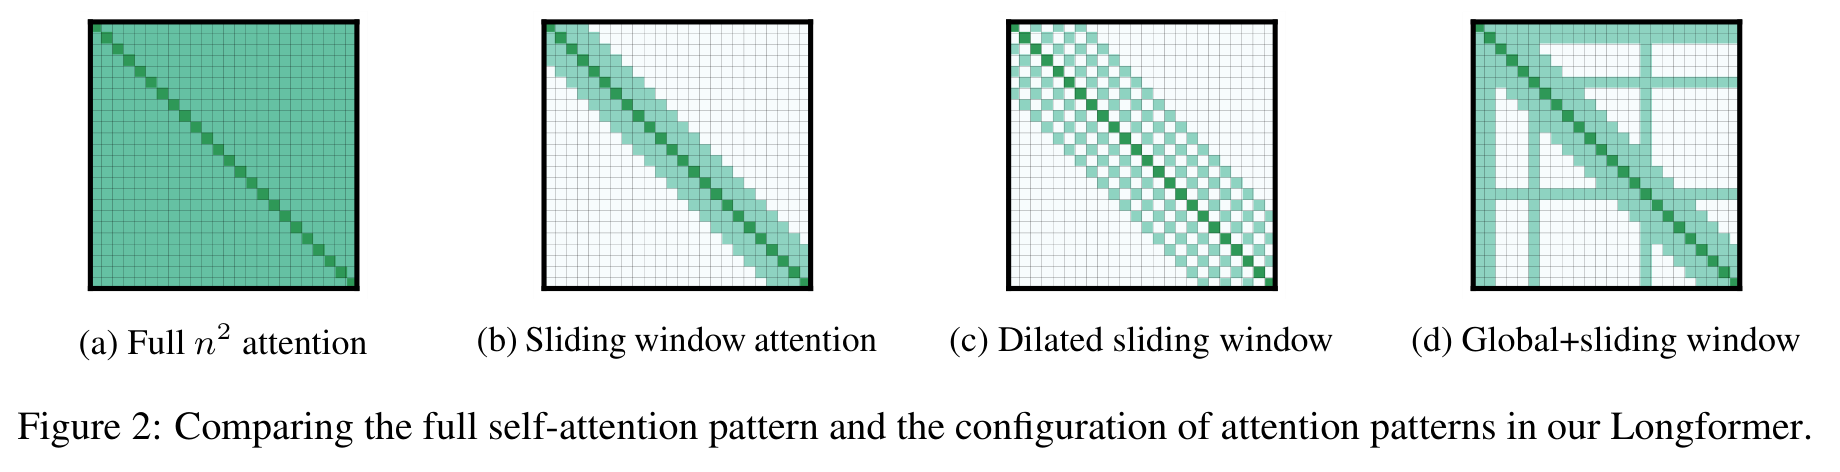
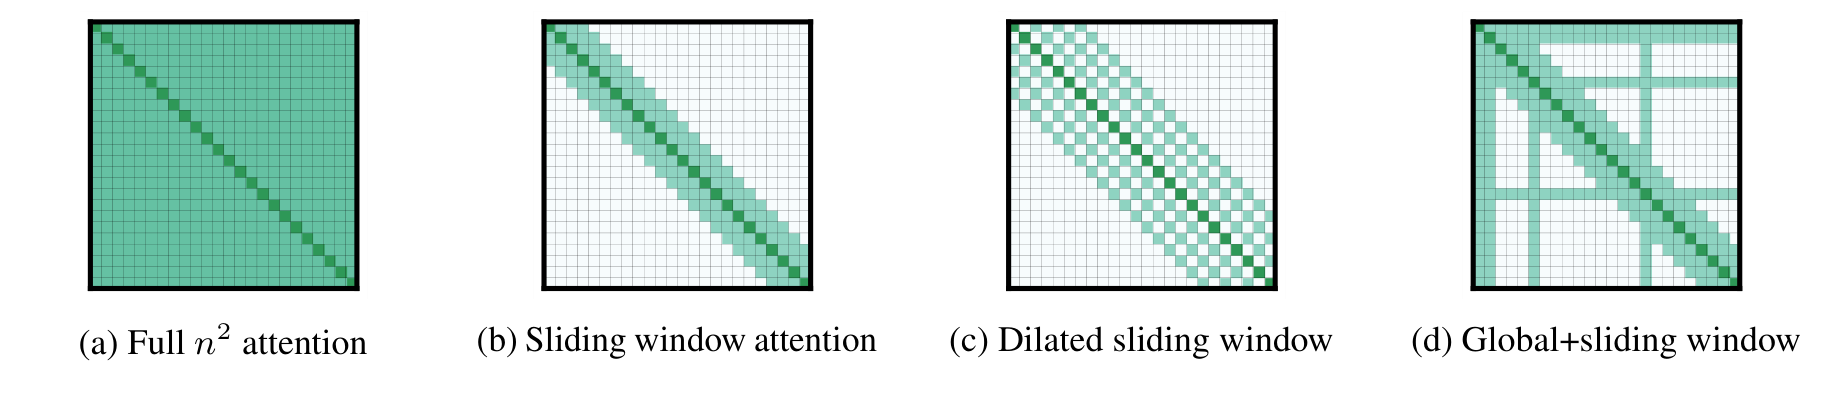
fix(papers): separate Longformer captions from original images
Keep all figure and table content while making captions selectable, and align Figure 1 commentary with the local v2 plot.

diff --git a/papers/longformer/index.html b/papers/longformer/index.html
@@ -6,7 +6,7 @@
 <p><strong>Longformer: The Long-Document Transformer</strong> · Iz Beltagy、Matthew E. Peters、Arman Cohan（等贡献）· Allen Institute for Artificial Intelligence。arXiv 首次提交 2020-04-10；本次精读本地 <strong>v2，2020-12-02，17 页</strong>，包括参考文献和附录 A–D。未确认独立会议版本或 DOI，因此不填造。</p>
 <p><a href="assets/original/2004.05150v2.pdf">论文 PDF</a> · <a href="https://arxiv.org/abs/2004.05150" rel="noopener">arXiv</a> · <a href="https://github.com/allenai/longformer" rel="noopener">官方代码</a> · <a href="https://huggingface.co/docs/transformers/model_doc/longformer" rel="noopener">Hugging Face 文档</a> · 阅读 / 更新日期：2026-10-27。</p>
 <p>Attention · Long Context · Sparse Attention · Encoder · Seq2Seq · Systems</p>
-<p>本文用 <strong>原论文</strong> 标识 [P]，用 <strong>外部资料</strong> 标识 [E]，用 <strong>解读 / 推导</strong> 标识作者未直接报告的分析。原始图表均保留，重排表格供检索，原图供核对；公式与交互读数不能代替实测性能。</p>
+<p>本文用 <strong>原论文</strong> 标识 [P]，用 <strong>外部资料</strong> 标识 [E]，用 <strong>解读 / 推导</strong> 标识作者未直接报告的分析。原始图表均保留，重排表格供检索，原图供核对。原文图注和中文解读放在图外，以可选择、可复制的文字呈现；图片保留图内坐标、图例、标注与表格内容。公式与交互读数不能代替实测性能。图注排版更新：2026-10-28。</p>
 <h2 id="section-2">TL;DR：一段话与五个关键点</h2>
 <p>标准 self-attention 的 score 矩阵随输入长度平方增长，使 RoBERTa 一类预训练 encoder 通常停留在 512 token。Longformer 让大多数 token 只看附近窗口，又让少量任务指定 token 双向连接全文，形成局部建模与长距离汇聚的组合。字符语言模型用因果、部分膨胀窗口验证这种连接图；长文档任务则从 RoBERTa 初始化、继续 MLM 训练，再按任务选择 global attention。v2 新增 LED，把 BART 的 encoder 改成 Longformer，decoder 和 cross-attention 保持稠密。结果说明较长输入有价值，也揭示任务预处理、训练预算和 kernel 实现会左右最终收益。[P 摘要、§1、§3–7]</p>
 <ol>
@@ -98,12 +98,13 @@ Our Longformer</td>
 <td class="ltx_td ltx_nopad_l ltx_nopad_r ltx_align_right ltx_border_bb ltx_border_t" style="padding-left:1.0pt;padding-right:1.0pt;">yes</td></tr>
 </tbody>
 </table></div>
-<details><summary>Table 1 原始截图、caption 与排版（核对用）</summary><figure class="original-figure"><button aria-label="放大 Table 1" data-zoom="assets/original/table-01-prior-work.png" type="button"><img alt="Table 1：完整实验行列、指标与注释，含原始 caption" loading="lazy" src="assets/original/table-01-prior-work.png"/></button><figcaption>Table 1 · Original Paper v2。点击放大；原 caption 已完整保留。</figcaption></figure></details>
+<p class="table-caption"><span class="caption-source">Table 1 · Original Paper v2 · PDF p. 2</span><span class="caption-text" lang="en">Table 1: Summary of prior work on adapting Transformers for long documents. ltr: left-to-right.</span></p>
+<details><summary>Table 1 原始表格与排版（点击展开核对）</summary><figure class="original-figure"><button aria-label="放大 Table 1" data-zoom="assets/original/table-01-prior-work.png" type="button"><img alt="Table 1：完整实验行列、指标与注释" loading="lazy" src="assets/original/table-01-prior-work.png"/></button><figcaption><span class="caption-source">Table 1 · Original Paper v2 · 点击放大核对图内内容</span></figcaption></figure></details>
 <p><strong>Table 1 深读。</strong> 这张表是机制分类，不是 benchmark 排名。Sliding window 保留连续邻域；dilated window 以间隔采样远处；block/local 通过块限制连接；稀疏分解让多步连接覆盖更大区域；memory 路线把历史压成可复用状态。表里的复杂度必须连同窗口、块、memory 长度等隐含参数一起读。“线性”没有保证更低常数，也没有保证与 dense 模型等价。</p>
 <p><strong>解读。</strong> Transformer-XL 的 segment recurrence 能复用过去状态，但段间缓存不等价于一次双向联合编码全文。Sparse Transformer 已探索稀疏分解；Longformer 的辨识度在于局部连续窗口、任务 global hubs 与 RoBERTa 迁移的组合。ETC、BigBird 属于同年相关路线，详见文末按时间整理的对比。</p>
 <h2 id="section-6">3. Longformer：重新构建方法</h2>
 <h3>3.1 Attention Pattern：窗口负责连续性，全局节点负责汇聚</h3>
-<figure class="original-figure"><button aria-label="放大 Figure 2" data-zoom="assets/original/fig-02-attention-pattern.png" type="button"><img alt="Figure 2：full、local、dilated 与 global 的 query–key 连接结构，含原始 caption" loading="lazy" src="assets/original/fig-02-attention-pattern.png"/></button><figcaption>Figure 2 · Original Paper v2。点击放大；原 caption 已完整保留。</figcaption></figure>
+<figure class="original-figure"><button aria-label="放大 Figure 2" data-zoom="assets/original/fig-02-attention-pattern.png" type="button"><img alt="Figure 2：full、local、dilated 与 global 的 query–key 连接结构" loading="lazy" src="assets/original/fig-02-attention-pattern.png"/></button><figcaption><span class="caption-source">Figure 2 · Original Paper v2 · PDF p. 3</span><span class="caption-text" lang="en">Figure 2: Comparing the full self-attention pattern and the configuration of attention patterns in our Longformer.</span></figcaption></figure>
 <p><strong>Figure 2 的问题。</strong> 它比较的是“允许计算哪些 query–key 对”，不是训练后 attention probability 的热力图。按左至右读 full、sliding、dilated、local + global；行对应 query，列对应 key。对角带表示附近连接，膨胀带表示按 stride 取邻居；global 的整行和整列分别表示它能读全文、全文能读它。[P Fig. 2]</p>
 <p><strong>Components / Data flow。</strong> 设序列长 <code>n</code>，总局部窗口宽 <code>w</code>，双向单侧半径 <code>r=w/2</code>。不计边界，普通 query 有 <code>w+1</code> 个 local key（包含自身），再加入 <code>g</code> 个 global key，并去重。global query 直接读所有 <code>n</code> 个 key。图中箭头可理解为上一层 key/value 的信息流向下一层 query 的输出。</p>
 <p><strong>Key observation / Why it matters。</strong> 固定 <code>w,g</code> 时，局部带和 global 行列只增加与 <code>n</code> 成正比的连接；但如果问题 token 很多、标题和句子标记也设为 global，<code>g</code> 会增加，成本不再是同一个常数。</p>
@@ -133,10 +134,10 @@ Our Longformer</td>
 <figure class="generated-figure"><svg aria-label="Longformer 的输入、双投影路径与任务输出" role="img" viewbox="0 0 780 325" xmlns="http://www.w3.org/2000/svg"><rect fill="#182335" height="66" rx="7" stroke="#49617f" width="710" x="35" y="15"></rect><text x="55" y="40">Token IDs + padding/global masks</text><text style="font-size:12px;fill:#9fb1c9" x="55" y="63">B×n → Embedding / absolute positions → B×n×D</text><path d="M390 81v25m-5 -6l5 6 5 -6"></path><rect fill="#182335" height="66" rx="7" stroke="#49617f" width="710" x="35" y="110"></rect><text x="55" y="135">每层 local Q/K/V + global Qg/Kg/Vg</text><text style="font-size:12px;fill:#9fb1c9" x="55" y="158">Ordinary: local ∪ global keys → shared softmax; global query: all keys</text><path d="M390 176v25m-5 -6l5 6 5 -6"></path><rect fill="#182335" height="66" rx="7" stroke="#49617f" width="710" x="35" y="205"></rect><text x="55" y="230">Residual / Norm → FFN → task head</text><text style="font-size:12px;fill:#9fb1c9" x="55" y="253">MLM / candidate / span / classification loss; encoder output B×n×D</text></svg><figcaption>Longformer 的输入、双投影路径与任务输出 · Agent-created Simplified Diagram。[<a href="assets/generated/pipeline.mmd">Mermaid source</a>]</figcaption></figure>
 <p><strong>复杂度 / 内存。</strong> Attention 点积与 V 汇聚约为 <code>O(B n(w+g)D)</code>；projection 和 FFN 仍有 <code>O(B nD²)</code> 项。局部 score buffer 约 <code>B H n(w+1)</code>，global 读写另有约 <code>B H ng</code>；分块 kernel 会分配冗余区和中间 buffer。公式估算 score 元素不能当作完整峰值显存，训练还要存反向激活、参数、梯度和 optimizer states。</p>
 <h3>3.2 Implementation：稀疏连接与 GPU 矩阵乘法之间的妥协</h3>
-<figure class="original-figure"><button aria-label="放大 Figure 1" data-zoom="assets/original/fig-01-runtime-memory.png" type="button"><img alt="Figure 1：attention 实现的 runtime 与 memory 随序列长度变化，含原始 caption" loading="lazy" src="assets/original/fig-01-runtime-memory.png"/></button><figcaption>Figure 1 · Original Paper v2。点击放大；原 caption 已完整保留。</figcaption></figure>
-<p><strong>Figure 1 的问题 / 读法。</strong> 左图读 runtime，单位 <strong>ms / batch</strong>；右图读 memory，单位 <strong>MiB</strong>。横轴是序列长度，分别比较 full、loop、overlapping chunks、TVM 的 diagonaled kernel 和 non-overlapping local-chunks。先看是否随长度扩展，再看同长度的曲线差异。[P Fig. 1、§3.2、附录 A]</p>
+<figure class="original-figure"><button aria-label="放大 Figure 1" data-zoom="assets/original/fig-01-runtime-memory.png" type="button"><img alt="Figure 1：attention 实现的 runtime 与 memory 随序列长度变化" loading="lazy" src="assets/original/fig-01-runtime-memory.png"/></button><figcaption><span class="caption-source">Figure 1 · Original Paper v2 · PDF p. 1</span><span class="caption-text" lang="en">Figure 1: Runtime and memory of full self-attention and different implementations of Longformer’s self-attention; Longformer-loop is non-vectorized, Longformer-chunk is vectorized, and Longformer-cuda is a custom cuda kernel implementations. Longformer’s memory usage scales linearly with the sequence length, unlike the full self-attention mechanism that runs out of memory for long sequences on current GPUs. Different implementations vary in speed, with the vectorized Longformer-chunk being the fastest. More details are in section 3.2.</span></figcaption></figure>
+<p><strong>Figure 1 的问题 / 读法。</strong> 左图读 runtime，单位 <strong>ms / batch</strong>；右图读 memory，单位 <strong>MiB</strong>。横轴是序列长度，图例中的四条曲线分别是 Full self-attention、Longformer-loop、Longformer-chunks、Longformer-cuda。先看是否随长度扩展，再看同长度的曲线差异。附录 A 的 non-overlapping local-chunks 是额外实现，不是本地 v2 Figure 1 中的一条曲线。[P Fig. 1、§3.2、附录 A]</p>
 <p><strong>Components / Data flow。</strong> Python loop 逐位置处理窗口，算术规模降低却产生很多小操作。Overlapping chunks 把 Q/K 切成重叠块，以 dense GEMM 求块内 score，再转换成对角布局；它会计算一部分最后被 mask 的元素。TVM 自定义 kernel 直接计算对角带，支持 dilation。Local-chunks 避免块重叠，但相应连接形状有细微差别，不是同一 mask 的纯实现替换。</p>
-<p><strong>Key observation。</strong> 图中 local-chunks 最快；TVM 更节省内存，速度不自动胜过 GEMM 分块。作者选择 PyTorch overlapping-chunks 为 fine-tuning 提供更方便的路径，字符 causal / dilation 设置则需要相应支持的实现。</p>
+<p><strong>Key observation。</strong> 本图中的 Longformer-chunks 最快；Longformer-cuda 更节省内存，速度不自动胜过 GEMM 分块。作者选择 PyTorch overlapping-chunks 为 fine-tuning 提供更方便的路径，字符 causal / dilation 设置则需要相应支持的实现。</p>
 <p><strong>Why it matters / 解读。</strong> GPU 时间受矩阵形状、启动次数、layout 转换和带宽影响。需要逐 op 测量 QKV projection → chunk / gather → QK → mask / softmax → PV → scatter → output projection，而不能仅按稀疏率推算速度。论文没有提供可直接迁移到 H100/H200 的完整 kernel 对比协议；这里不从图上编造精确点值，也不把它当成 FlashAttention 的实测对照。</p>
 <h2 id="section-7">4. Autoregressive Language Modeling：先隔离稀疏连接的表达能力</h2>
 <h3>4.1 Pattern：这个实验不是发布 encoder 的同一个设置</h3>
@@ -216,7 +217,8 @@ Our Longformer</td>
 <td class="ltx_td ltx_nopad_r ltx_align_right ltx_border_bb"><span class="ltx_text ltx_font_bold">1.00</span></td></tr>
 </tbody>
 </table></div>
-<details><summary>Table 2 原始截图、caption 与排版（核对用）</summary><figure class="original-figure"><button aria-label="放大 Table 2" data-zoom="assets/original/table-02-small-char-lm.png" type="button"><img alt="Table 2：完整实验行列、指标与注释，含原始 caption" loading="lazy" src="assets/original/table-02-small-char-lm.png"/></button><figcaption>Table 2 · Original Paper v2。点击放大；原 caption 已完整保留。</figcaption></figure></details>
+<p class="table-caption"><span class="caption-source">Table 2 · Original Paper v2 · PDF p. 5</span><span class="caption-text" lang="en">Table 2: Small model BPC on text8 &amp; enwik8</span></p>
+<details><summary>Table 2 原始表格与排版（点击展开核对）</summary><figure class="original-figure"><button aria-label="放大 Table 2" data-zoom="assets/original/table-02-small-char-lm.png" type="button"><img alt="Table 2：完整实验行列、指标与注释" loading="lazy" src="assets/original/table-02-small-char-lm.png"/></button><figcaption><span class="caption-source">Table 2 · Original Paper v2 · 点击放大核对图内内容</span></figcaption></figure></details>
 <p><strong>Table 2。</strong> 同类 small 规模下，Longformer text8 test BPC <strong>1.10</strong>，最佳此前 small 为 1.11，下降 0.01（相对约 0.90%）；enwik8 <strong>1.00</strong> 对 1.02，下降 0.02（约 1.96%）。这些是 BPC 的相对变化，不是 accuracy 上升。参数、数据处理和训练预算并未逐项完全相等；不能据此推导单位 GPU-hour 的优势。</p>
 <div aria-label="原论文 Table 3 完整重排" class="table-scroll original-table" role="region" tabindex="0"><table class="ltx_tabular ltx_centering ltx_guessed_headers ltx_align_middle">
 <thead class="ltx_thead">
@@ -256,7 +258,8 @@ Our Longformer</td>
 <td class="ltx_td ltx_align_right ltx_border_bb">0.99</td></tr>
 </tbody>
 </table></div>
-<details><summary>Table 3 原始截图、caption 与排版（核对用）</summary><figure class="original-figure"><button aria-label="放大 Table 3" data-zoom="assets/original/table-03-large-char-lm.png" type="button"><img alt="Table 3：完整实验行列、指标与注释，含原始 caption" loading="lazy" src="assets/original/table-03-large-char-lm.png"/></button><figcaption>Table 3 · Original Paper v2。点击放大；原 caption 已完整保留。</figcaption></figure></details>
+<p class="table-caption"><span class="caption-source">Table 3 · Original Paper v2 · PDF p. 5</span><span class="caption-text" lang="en">Table 3: Performance of large models on enwik8</span></p>
+<details><summary>Table 3 原始表格与排版（点击展开核对）</summary><figure class="original-figure"><button aria-label="放大 Table 3" data-zoom="assets/original/table-03-large-char-lm.png" type="button"><img alt="Table 3：完整实验行列、指标与注释" loading="lazy" src="assets/original/table-03-large-char-lm.png"/></button><figcaption><span class="caption-source">Table 3 · Original Paper v2 · 点击放大核对图内内容</span></figcaption></figure></details>
 <p><strong>Table 3。</strong> Large Longformer 102M 在 enwik8 的 BPC 为 <strong>0.99</strong>；Compressive Transformer 277M 为 <strong>0.97</strong>，仍低 0.02。它说明稀疏模型能在较少参数下达到接近的字符建模质量，不能称“所有规模整体 SOTA”。论文没有统一复训全部 baseline，内存与时长也没有构成完整同预算排名。</p>
 <h3>4.2.2 Ablations：阶段性实验能支持多强的因果结论？</h3>
 <div aria-label="原论文 Table 4 完整重排" class="table-scroll original-table" role="region" tabindex="0"><table class="ltx_tabular ltx_centering ltx_guessed_headers ltx_align_middle">
@@ -283,7 +286,8 @@ Our Longformer</td>
 <td class="ltx_td ltx_nopad_r ltx_align_right ltx_border_bb"><span class="ltx_text ltx_font_bold">1.20</span></td></tr>
 </tbody>
 </table></div>
-<details><summary>Table 4 原始截图、caption 与排版（核对用）</summary><figure class="original-figure"><button aria-label="放大 Table 4" data-zoom="assets/original/table-04-char-ablation.png" type="button"><img alt="Table 4：完整实验行列、指标与注释，含原始 caption" loading="lazy" src="assets/original/table-04-char-ablation.png"/></button><figcaption>Table 4 · Original Paper v2。点击放大；原 caption 已完整保留。</figcaption></figure></details>
+<p class="table-caption"><span class="caption-source">Table 4 · Original Paper v2 · PDF p. 6</span><span class="caption-text" lang="en">Table 4: Top: changing window size across layers. Bottom: with/without dilation (@ 150K steps on phase1)</span></p>
+<details><summary>Table 4 原始表格与排版（点击展开核对）</summary><figure class="original-figure"><button aria-label="放大 Table 4" data-zoom="assets/original/table-04-char-ablation.png" type="button"><img alt="Table 4：完整实验行列、指标与注释" loading="lazy" src="assets/original/table-04-char-ablation.png"/></button><figcaption><span class="caption-source">Table 4 · Original Paper v2 · 点击放大核对图内内容</span></figcaption></figure></details>
 <p><strong>Table 4。</strong> 只在 phase 1、150K 更新的 text8 dev BPC 比较：窗口递减 1.24、固定 1.23、递增 1.21；固定其他设置后，无 dilation 1.21、2 heads dilation 1.20。递增比递减降低 0.03（约 2.42%），dilation 降低 0.01（约 0.83%）。作者明确说中途顺序可能不等于完整训练后的顺序。它支持这套训练阶段中的设计方向，尚不能证明任意 task / depth 都应采用相同 schedule。</p>
 <h2 id="section-8">5. Pretraining and Finetuning：把 RoBERTa 迁移到 4096 token</h2>
 <h3>初始化：为什么复制位置比随机扩展更稳？</h3>
@@ -323,7 +327,8 @@ Our Longformer</td>
 <td class="ltx_td ltx_nopad_r ltx_align_right ltx_border_bb">1.504</td></tr>
 </tbody>
 </table></div>
-<details><summary>Table 5 原始截图、caption 与排版（核对用）</summary><figure class="original-figure"><button aria-label="放大 Table 5" data-zoom="assets/original/table-05-mlm-initialization.png" type="button"><img alt="Table 5：完整实验行列、指标与注释，含原始 caption" loading="lazy" src="assets/original/table-05-mlm-initialization.png"/></button><figcaption>Table 5 · Original Paper v2。点击放大；原 caption 已完整保留。</figcaption></figure></details>
+<p class="table-caption"><span class="caption-source">Table 5 · Original Paper v2 · PDF p. 6</span><span class="caption-text" lang="en">Table 5: MLM BPC for RoBERTa and various pretrained Longformer configurations.</span></p>
+<details><summary>Table 5 原始表格与排版（点击展开核对）</summary><figure class="original-figure"><button aria-label="放大 Table 5" data-zoom="assets/original/table-05-mlm-initialization.png" type="button"><img alt="Table 5：完整实验行列、指标与注释" loading="lazy" src="assets/original/table-05-mlm-initialization.png"/></button><figcaption><span class="caption-source">Table 5 · Original Paper v2 · 点击放大核对图内内容</span></figcaption></figure></details>
 <p><strong>Table 5。</strong> 这是 MLM evaluation BPC。Base 随机扩展 <strong>10.299</strong>，复制 <strong>1.957</strong>，2K 更新 <strong>1.753</strong>，65K <strong>1.705</strong>；large 为 <strong>8.738 / 1.597 / 1.414 / 1.358</strong>。复制后冻结旧参数、只训练新位置的结果 base <strong>1.850</strong>、large <strong>1.504</strong>，弱于完整继续训练。原 RoBERTa base <strong>1.846</strong>、large <strong>1.496</strong>；由于评估上下文不同，不能把这列当作严格同输入条件的模型质量比较。</p>
 <h3>Training pipeline / Loss / Optimizer</h3>
 <p>继续训练使用 MLM：只在被选中的预测位置计算词表交叉熵；这不是 causal next-token objective。序列 4096，attention window 512，65K updates，batch 64，最大 LR <code>3e-5</code>，warmup 500，power=3 polynomial decay，fairseq 实现，其余 optimizer / 正则等超参继承 RoBERTa，原文未在此逐项重列。[P §5、附录 C]</p>
@@ -362,7 +367,8 @@ Our Longformer</td>
 <td class="ltx_td ltx_nopad_r ltx_align_right ltx_border_bb" style="padding-left:3.0pt;padding-right:3.0pt;">1,975</td></tr>
 </tbody>
 </table></div>
-<details><summary>Table 6 原始截图、caption 与排版（核对用）</summary><figure class="original-figure"><button aria-label="放大 Table 6" data-zoom="assets/original/table-06-dataset-lengths.png" type="button"><img alt="Table 6：完整实验行列、指标与注释，含原始 caption" loading="lazy" src="assets/original/table-06-dataset-lengths.png"/></button><figcaption>Table 6 · Original Paper v2。点击放大；原 caption 已完整保留。</figcaption></figure></details>
+<p class="table-caption"><span class="caption-source">Table 6 · Original Paper v2 · PDF p. 7</span><span class="caption-text" lang="en">Table 6: Average and 95th percentile of context length of datasets in wordpieces. WH: WikiHop, TQA: TriviaQA, HQA: HotpotQA, ON: OntoNotes, HY: Hyperpartisan news</span></p>
+<details><summary>Table 6 原始表格与排版（点击展开核对）</summary><figure class="original-figure"><button aria-label="放大 Table 6" data-zoom="assets/original/table-06-dataset-lengths.png" type="button"><img alt="Table 6：完整实验行列、指标与注释" loading="lazy" src="assets/original/table-06-dataset-lengths.png"/></button><figcaption><span class="caption-source">Table 6 · Original Paper v2 · 点击放大核对图内内容</span></figcaption></figure></details>
 <p><strong>Table 6。</strong> 这张表描述数据长度分布，不是结果。平均值会掩盖长尾，95th percentile 与模型最大输入长度要一起看。TriviaQA 平均 6,589 token、p95 17,126，却在本文设置下截断到 4096。支持“长序列”不等于本实验读到了每篇样本的全文。</p>
 <h3>6.1 Question Answering：global mask 是任务设计的一部分</h3>
 <p><strong>WikiHop。</strong> 输入组合问题、候选与 supporting documents，把问题 / 候选相关位置指定为 global，从候选表示进行分类；指标是候选选择 <strong>accuracy</strong>。Base 对超过 4096 的文本仍分块，large 因显存只用前 4096。[P §6.1、附录 D]</p>
@@ -411,7 +417,8 @@ Our Longformer</td>
 <td class="ltx_td ltx_nopad_r ltx_align_right ltx_border_bb"><span class="ltx_text ltx_font_bold">94.8</span></td></tr>
 </tbody>
 </table></div>
-<details><summary>Table 7 原始截图、caption 与排版（核对用）</summary><figure class="original-figure"><button aria-label="放大 Table 7" data-zoom="assets/original/table-07-downstream-base.png" type="button"><img alt="Table 7：完整实验行列、指标与注释，含原始 caption" loading="lazy" src="assets/original/table-07-downstream-base.png"/></button><figcaption>Table 7 · Original Paper v2。点击放大；原 caption 已完整保留。</figcaption></figure></details>
+<p class="table-caption"><span class="caption-source">Table 7 · Original Paper v2 · PDF p. 8</span><span class="caption-text" lang="en">Table 7: Summary of finetuning results on QA, coreference resolution, and document classification. Results are on the development sets comparing our Longformer-base with RoBERTa-base. TriviaQA, Hyperpartisan metrics are F1, WikiHop and IMDB use accuracy, HotpotQA is joint F1, OntoNotes is average F1.</span></p>
+<details><summary>Table 7 原始表格与排版（点击展开核对）</summary><figure class="original-figure"><button aria-label="放大 Table 7" data-zoom="assets/original/table-07-downstream-base.png" type="button"><img alt="Table 7：完整实验行列、指标与注释" loading="lazy" src="assets/original/table-07-downstream-base.png"/></button><figcaption><span class="caption-source">Table 7 · Original Paper v2 · 点击放大核对图内内容</span></figcaption></figure></details>
 <p><strong>Table 7。</strong> 都是 development set，但任务指标不同。RoBERTa→Longformer-base：WikiHop 72.4→75.0（<strong>+2.6pp</strong>，相对 +3.59%），TriviaQA 74.3→75.2（+0.9pp，+1.21%），HotpotQA 63.5→64.4（+0.9pp，+1.42%），OntoNotes 78.4→78.6（+0.2pp，+0.26%），IMDB 95.3→95.7（+0.4pp，+0.42%），Hyperpartisan 87.4→94.8（+7.4pp，+8.47%）。</p>
 <p>这里的 relative 只是 <code>(new−old)/old</code>，不是错误率相对下降。长文本分类收益较明显，coreference 很小；不能平均六列产生“整体准确率提升”。长上下文、MLM 训练和任务调参共同变化，表本身不是结构单因素实验。</p>
 <div aria-label="原论文 Table 8 完整重排" class="table-scroll original-table" role="region" tabindex="0"><table class="ltx_tabular ltx_centering ltx_guessed_headers ltx_align_middle">
@@ -435,7 +442,8 @@ Our Longformer</td>
 <td class="ltx_td ltx_nopad_r ltx_align_right ltx_border_bb">73.2</td></tr>
 </tbody>
 </table></div>
-<details><summary>Table 8 原始截图、caption 与排版（核对用）</summary><figure class="original-figure"><button aria-label="放大 Table 8" data-zoom="assets/original/table-08-qa-leaderboards.png" type="button"><img alt="Table 8：完整实验行列、指标与注释，含原始 caption" loading="lazy" src="assets/original/table-08-qa-leaderboards.png"/></button><figcaption>Table 8 · Original Paper v2。点击放大；原 caption 已完整保留。</figcaption></figure></details>
+<p class="table-caption"><span class="caption-source">Table 8 · Original Paper v2 · PDF p. 8</span><span class="caption-text" lang="en">Table 8: Leaderboard results of Longformer-large at time of submission (May 2020). All numbers are F1 scores.</span></p>
+<details><summary>Table 8 原始表格与排版（点击展开核对）</summary><figure class="original-figure"><button aria-label="放大 Table 8" data-zoom="assets/original/table-08-qa-leaderboards.png" type="button"><img alt="Table 8：完整实验行列、指标与注释" loading="lazy" src="assets/original/table-08-qa-leaderboards.png"/></button><figcaption><span class="caption-source">Table 8 · Original Paper v2 · 点击放大核对图内内容</span></figcaption></figure></details>
 <p><strong>Table 8。</strong> 原 caption 写“all F1”，但 WikiHop 实际是 accuracy，这是论文自身的标注冲突，保留原图并勘误。表引用 <strong>May 2020</strong> 榜单：WikiHop 78.3→81.9（+3.6pp），TriviaQA 73.3→77.3（+4.0pp），HotpotQA 74.2→73.2（−1.0pp）。它既不是 v2 日期的完整榜单，也不是 2026 排名。</p>
 <div aria-label="原论文 Table 9 完整重排" class="table-scroll original-table" role="region" tabindex="0"><table class="ltx_tabular ltx_centering ltx_guessed_headers ltx_align_middle">
 <tbody class="ltx_tbody">
@@ -488,7 +496,8 @@ ETC-large<sup class="ltx_sup"><span class="ltx_text ltx_font_italic">†</span><
 <td class="ltx_td ltx_nopad_r ltx_align_right ltx_border_bb" style="padding-left:4.0pt;padding-right:4.0pt;">74.2</td></tr>
 </tbody>
 </table></div>
-<details><summary>Table 9 原始截图、caption 与排版（核对用）</summary><figure class="original-figure"><button aria-label="放大 Table 9" data-zoom="assets/original/table-09-hotpotqa.png" type="button"><img alt="Table 9：完整实验行列、指标与注释，含原始 caption" loading="lazy" src="assets/original/table-09-hotpotqa.png"/></button><figcaption>Table 9 · Original Paper v2。点击放大；原 caption 已完整保留。</figcaption></figure></details>
+<p class="table-caption"><span class="caption-source">Table 9 · Original Paper v2 · PDF p. 9</span><span class="caption-text" lang="en">Table 9: HotpotQA results in distractor setting test set. Quark’s test results are not available. All numbers are F1 scores. † shows contemporaneous leaderboard submissions.</span></p>
+<details><summary>Table 9 原始表格与排版（点击展开核对）</summary><figure class="original-figure"><button aria-label="放大 Table 9" data-zoom="assets/original/table-09-hotpotqa.png" type="button"><img alt="Table 9：完整实验行列、指标与注释" loading="lazy" src="assets/original/table-09-hotpotqa.png"/></button><figcaption><span class="caption-source">Table 9 · Original Paper v2 · 点击放大核对图内内容</span></figcaption></figure></details>
 <p><strong>Table 9。</strong> HotpotQA 要分别看 answer、supporting facts、joint F1；joint 不是两者简单平均。HGN joint 74.2 优于 Longformer 73.2；ETC 73.6 和 GSAN 73.9 也高于它。Quark 行是 dev，其余主要为 test，不能混排作严格结论。v2 表格不支持“当时 overall 第二”或“全面超过所有 baseline”的说法。</p>
 <h3>6.5 WikiHop Ablations：拆掉 global 与投影的效应不能混算</h3>
 <div aria-label="原论文 Table 10 完整重排" class="table-scroll original-table" role="region" tabindex="0"><table class="ltx_tabular ltx_centering ltx_guessed_headers ltx_align_middle">
@@ -528,7 +537,8 @@ RoBERTa-base (seqlen: 512)</th>
 <td class="ltx_td ltx_nopad_l ltx_nopad_r ltx_align_right ltx_border_bb" style="padding-left:-2.0pt;padding-right:-2.0pt;">73.5 / -0.3</td></tr>
 </tbody>
 </table></div>
-<details><summary>Table 10 原始截图、caption 与排版（核对用）</summary><figure class="original-figure"><button aria-label="放大 Table 10" data-zoom="assets/original/table-10-wikihop-ablation.png" type="button"><img alt="Table 10：完整实验行列、指标与注释，含原始 caption" loading="lazy" src="assets/original/table-10-wikihop-ablation.png"/></button><figcaption>Table 10 · Original Paper v2。点击放大；原 caption 已完整保留。</figcaption></figure></details>
+<p class="table-caption"><span class="caption-source">Table 10 · Original Paper v2 · PDF p. 9</span><span class="caption-text" lang="en">Table 10: WikiHop development set ablations</span></p>
+<details><summary>Table 10 原始表格与排版（点击展开核对）</summary><figure class="original-figure"><button aria-label="放大 Table 10" data-zoom="assets/original/table-10-wikihop-ablation.png" type="button"><img alt="Table 10：完整实验行列、指标与注释" loading="lazy" src="assets/original/table-10-wikihop-ablation.png"/></button><figcaption><span class="caption-source">Table 10 · Original Paper v2 · 点击放大核对图内内容</span></figcaption></figure></details>
 <p><strong>Table 10。</strong> 同为 base、5 epochs：完整模型 <strong>73.8</strong>；去 separate global projections <strong>72.2</strong>（−1.6pp）；再去 global attention <strong>65.5</strong>（相对 72.2 再降 6.7pp）。完整→两个组件同时去掉为 <strong>−8.3pp</strong>，不能把全部损失都归因 global mask。</p>
 <p>训练 15 epochs 结果 <strong>75.0</strong>，比 5 epochs +1.2pp；不继续 MLM 是 <strong>73.2</strong>，比完整 5 epochs −0.6pp。512 dense attention 继续训练为 <strong>71.7</strong>，RoBERTa baseline <strong>72.4</strong>，显示单纯额外 MLM 不解释所有收益。仍缺 global mask 与 separate projection 的完整 2×2 因子实验，以及同训练 token / 同 context / 同预算对照。</p>
 <h2 id="section-10">7. Longformer-Encoder-Decoder：输入变长，生成仍有成本</h2>
@@ -585,9 +595,10 @@ LED-large (seqlen: 16,384) (ours)</td>
 <td class="ltx_td ltx_nopad_r ltx_align_right ltx_border_bb ltx_border_t"><span class="ltx_text ltx_font_bold">41.83</span></td></tr>
 </tbody>
 </table></div>
-<details><summary>Table 11 原始截图、caption 与排版（核对用）</summary><figure class="original-figure"><button aria-label="放大 Table 11" data-zoom="assets/original/table-11-led-summarization.png" type="button"><img alt="Table 11：完整实验行列、指标与注释，含原始 caption" loading="lazy" src="assets/original/table-11-led-summarization.png"/></button><figcaption>Table 11 · Original Paper v2。点击放大；原 caption 已完整保留。</figcaption></figure></details>
+<p class="table-caption"><span class="caption-source">Table 11 · Original Paper v2 · PDF p. 10</span><span class="caption-text" lang="en">Table 11: Summarization results of Longformer-Encoder-Decoder (LED) on the arXiv dataset. Metrics from left to right are ROUGE-1, ROUGE-2 and ROUGE-L.</span></p>
+<details><summary>Table 11 原始表格与排版（点击展开核对）</summary><figure class="original-figure"><button aria-label="放大 Table 11" data-zoom="assets/original/table-11-led-summarization.png" type="button"><img alt="Table 11：完整实验行列、指标与注释" loading="lazy" src="assets/original/table-11-led-summarization.png"/></button><figcaption><span class="caption-source">Table 11 · Original Paper v2 · 点击放大核对图内内容</span></figcaption></figure></details>
 <p><strong>Table 11：arXiv test，ROUGE 越高越好。</strong> LED-4096 为 <strong>44.40 / 17.94 / 39.76</strong>；LED-16384 为 <strong>46.63 / 19.62 / 41.83</strong>，R1 / R2 / RL 分别 +2.23 / +1.68 / +2.07（相对 +5.02% / +9.36% / +5.21%）。BigBird-4096 为 <strong>46.63 / 19.02 / 41.77</strong>，LED-16K 的 R1 持平、R2 +0.60、RL +0.06。BigBird 使用 Pegasus 相关初始化，LED 用 BART，输入长度也不同；不是同配置模型替换实验。</p>
-<figure class="original-figure"><button aria-label="放大 Figure 3" data-zoom="assets/original/fig-03-led-input-length.png" type="button"><img alt="Figure 3：LED validation ROUGE 随 encoder 长度增加，含原始 caption" loading="lazy" src="assets/original/fig-03-led-input-length.png"/></button><figcaption>Figure 3 · Original Paper v2。点击放大；原 caption 已完整保留。</figcaption></figure>
+<figure class="original-figure"><button aria-label="放大 Figure 3" data-zoom="assets/original/fig-03-led-input-length.png" type="button"><img alt="Figure 3：LED validation ROUGE 随 encoder 长度增加" loading="lazy" src="assets/original/fig-03-led-input-length.png"/></button><figcaption><span class="caption-source">Figure 3 · Original Paper v2 · PDF p. 10</span><span class="caption-text" lang="en">Figure 3: ROUGE-1 and ROUGE-2 of LED when varying the input size (arXiv validation set).</span></figcaption></figure>
 <p><strong>Figure 3 的问题 / 读法。</strong> 看增加 encoder context 是否改善摘要，在 <strong>validation</strong> 上分别画 ROUGE-1 / ROUGE-2。1K 是 <strong>35.21 / 11.54</strong>，4K <strong>44.48 / 17.99</strong>，16K <strong>46.23 / 19.62</strong>。[P Fig. 3]</p>
 <p><strong>Components / Data flow。</strong> 横轴是输入长度，纵轴是相应 ROUGE；它没有 decoder kernel 流程。作者保持同一路 LED 思路并增加可读内容，趋势说明截断造成的信息损失值得减少。</p>
 <p><strong>Key observation / Why it matters。</strong> 1K→4K 改善很大，4K→16K 仍增加但趋缓。更多输入可以改善摘要覆盖，不代表每增加一倍 context 就同比提升。验证集数值不能与 Table 11 test 数值混写。该图没有报告每个长度的 latency、peak memory、训练 tokens 或置信区间，质量–成本 Pareto 仍需补测。</p>
@@ -678,7 +689,8 @@ LED-large (seqlen: 16,384) (ours)</td>
 <td class="ltx_td ltx_nopad_r ltx_align_left ltx_border_bb">2 heads only</td></tr>
 </tbody>
 </table></div>
-<details><summary>Table 12 原始截图、caption 与排版（核对用）</summary><figure class="original-figure"><button aria-label="放大 Table 12" data-zoom="assets/original/table-12-char-hyperparameters.png" type="button"><img alt="Table 12：完整实验行列、指标与注释，含原始 caption" loading="lazy" src="assets/original/table-12-char-hyperparameters.png"/></button><figcaption>Table 12 · Original Paper v2。点击放大；原 caption 已完整保留。</figcaption></figure></details>
+<p class="table-caption"><span class="caption-source">Table 12 · Original Paper v2 · PDF p. 15</span><span class="caption-text" lang="en">Table 12: Hyperparameters for the best performing model for character-level language modeling</span></p>
+<details><summary>Table 12 原始表格与排版（点击展开核对）</summary><figure class="original-figure"><button aria-label="放大 Table 12" data-zoom="assets/original/table-12-char-hyperparameters.png" type="button"><img alt="Table 12：完整实验行列、指标与注释" loading="lazy" src="assets/original/table-12-char-hyperparameters.png"/></button><figcaption><span class="caption-source">Table 12 · Original Paper v2 · 点击放大核对图内内容</span></figcaption></figure></details>
 <p><strong>Table 12 审计。</strong> 原 PDF 和 HTML 均有明显排版 / 数值异常：phase 1 window 写 <strong>32→8192</strong>，而消融文字为 <strong>32→512</strong>；phase 5 top window 缺失；末阶段 LR 写作 <strong><code>000015625</code></strong>。不能静默修成合理数字。由起始 <code>0.00025</code> 连续减半四次推得 <code>0.000015625</code> 仅是推断，需代码或作者确认。</p>
 <p>正文说每阶段序列翻倍，但 <code>2048×16=32768</code>，实际最后阶段 <strong>23040</strong>，受 GPU memory 限制。底层 dilation 写 0 的含义是“禁用 dilation”，不是公式 stride <code>d=0</code>；本文交互中 <code>d=1</code> 才是连续窗口。完整表与原图同时呈现，以防误把格式错误当成精确可复现 recipe。</p>
 <h3>C. Pretraining Data：语料大小和重复曝光量</h3>
@@ -708,7 +720,8 @@ LED-large (seqlen: 16,384) (ours)</td>
 <td class="ltx_td ltx_nopad_r ltx_align_right ltx_border_bb">7.8K</td></tr>
 </tbody>
 </table></div>
-<details><summary>Table 13 原始截图、caption 与排版（核对用）</summary><figure class="original-figure"><button aria-label="放大 Table 13" data-zoom="assets/original/table-13-pretraining-corpus.png" type="button"><img alt="Table 13：完整实验行列、指标与注释，含原始 caption" loading="lazy" src="assets/original/table-13-pretraining-corpus.png"/></button><figcaption>Table 13 · Original Paper v2。点击放大；原 caption 已完整保留。</figcaption></figure></details>
+<p class="table-caption"><span class="caption-source">Table 13 · Original Paper v2 · PDF p. 15</span><span class="caption-text" lang="en">Table 13: Pretraining data</span></p>
+<details><summary>Table 13 原始表格与排版（点击展开核对）</summary><figure class="original-figure"><button aria-label="放大 Table 13" data-zoom="assets/original/table-13-pretraining-corpus.png" type="button"><img alt="Table 13：完整实验行列、指标与注释" loading="lazy" src="assets/original/table-13-pretraining-corpus.png"/></button><figcaption><span class="caption-source">Table 13 · Original Paper v2 · 点击放大核对图内内容</span></figcaption></figure></details>
 <p><strong>Table 13。</strong> 完整语料包括书籍、Wikipedia、RealNews 和 Stories 等，合计 <strong>6.5B tokens</strong>。数据统计不等于训练曝光量，也不能从 token 总量推断去重比例、数据许可或 unique documents。继续 MLM 累积的 17.03936B token positions 是另一个口径。</p>
 <h3>D. Task-specific Details：论文结论成立的完整链路</h3>
 <div aria-label="原论文 Table 14 完整重排" class="table-scroll original-table" role="region" tabindex="0"><table class="ltx_tabular ltx_centering ltx_guessed_headers ltx_align_middle">
@@ -745,7 +758,8 @@ LED-large (seqlen: 16,384) (ours)</td>
 <td class="ltx_td ltx_nopad_r ltx_align_right ltx_border_bb">Adam</td></tr>
 </tbody>
 </table></div>
-<details><summary>Table 14 原始截图、caption 与排版（核对用）</summary><figure class="original-figure"><button aria-label="放大 Table 14" data-zoom="assets/original/table-14-qa-hyperparameters.png" type="button"><img alt="Table 14：完整实验行列、指标与注释，含原始 caption" loading="lazy" src="assets/original/table-14-qa-hyperparameters.png"/></button><figcaption>Table 14 · Original Paper v2。点击放大；原 caption 已完整保留。</figcaption></figure></details>
+<p class="table-caption"><span class="caption-source">Table 14 · Original Paper v2 · PDF p. 16</span><span class="caption-text" lang="en">Table 14: Hyperparameters of the QA models. All models use a similar scheduler with linear warmup and decay.</span></p>
+<details><summary>Table 14 原始表格与排版（点击展开核对）</summary><figure class="original-figure"><button aria-label="放大 Table 14" data-zoom="assets/original/table-14-qa-hyperparameters.png" type="button"><img alt="Table 14：完整实验行列、指标与注释" loading="lazy" src="assets/original/table-14-qa-hyperparameters.png"/></button><figcaption><span class="caption-source">Table 14 · Original Paper v2 · 点击放大核对图内内容</span></figcaption></figure></details>
 <p><strong>Table 14。</strong> 它列 QA 的 optimizer / LR / batch 等设置，须按任务和模型规模分别读。HotpotQA 表内 LR <strong>5e-5</strong>，附录 D 文本所述最佳配置 <strong>3e-5</strong>，冲突未解；复现应两者都记录或向作者求证，而不是任取一个声称原配置。</p>
 <p>WikiHop-base 仍分块、large 截断，TriviaQA 截断，Hotpot 两阶段筛选，coreference segmentation 和跨框架桥接，都是原实验的一部分。论文动机中的“避免 chunking”不应覆盖掉这些实际工程细节。</p>
 <h2 id="section-13">External Research：前史、同代、后续与替代路线</h2>

diff --git a/papers/longformer/assets/reading.css b/papers/longformer/assets/reading.css
@@ -2,3 +2,4 @@
 
 #attention-svg{max-width:580px;margin:20px auto}.original-table .ltx_border_bb{border-bottom:2px solid #7c8fa9}.ltx_font_underline{text-decoration:underline}.original-table math{font-size:14px}.controls input[type=number]{background:#182337;color:#e5edfa;padding:8px;border:1px solid #536174;border-radius:5px}.generated-figure svg{min-width:550px}.generated-figure{overflow-x:auto}.article details .original-figure{margin:12px 0}.formula code{display:block;white-space:nowrap}.original-table th{position:sticky;left:0}.original-table td{background:#111720}.generated-figure figcaption{min-width:0}@media(max-width:600px){.original-table th{position:static}.generated-figure svg{min-width:550px}.reading-meta{font-size:11px}}
 .highlight .k,.highlight .kn,.highlight .ow{color:#c4a7e7}.highlight .s,.highlight .s1,.highlight .s2{color:#9bc5b0}.highlight .c1{color:#8b9ab0}.highlight .nb,.highlight .nf{color:#9abdf2}.highlight .mi{color:#e4bd85}
+.caption-source{display:block;color:#a9b8cd;font-size:12px;margin-bottom:6px}.caption-text{display:block;color:#becbdd;font-size:14px;line-height:1.65;overflow-wrap:anywhere;user-select:text}.table-caption{margin:12px 0 18px}.original-figure figcaption{text-align:left}.original-figure img{display:block;width:100%;height:auto}

diff --git a/papers/longformer/index.md b/papers/longformer/index.md
@@ -10,7 +10,7 @@
 
 Attention · Long Context · Sparse Attention · Encoder · Seq2Seq · Systems
 
-本文用 **原论文** 标识 [P]，用 **外部资料** 标识 [E]，用 **解读 / 推导** 标识作者未直接报告的分析。原始图表均保留，重排表格供检索，原图供核对；公式与交互读数不能代替实测性能。
+本文用 **原论文** 标识 [P]，用 **外部资料** 标识 [E]，用 **解读 / 推导** 标识作者未直接报告的分析。原始图表均保留，重排表格供检索，原图供核对。原文图注和中文解读放在图外，以可选择、可复制的文字呈现；图片保留图内坐标、图例、标注与表格内容。公式与交互读数不能代替实测性能。图注排版更新：2026-10-28。
 
 ## TL;DR：一段话与五个关键点
 
@@ -101,11 +101,11 @@ return output_projection(concat_heads(Y))
 
 {{fig1}}
 
-**Figure 1 的问题 / 读法。** 左图读 runtime，单位 **ms / batch**；右图读 memory，单位 **MiB**。横轴是序列长度，分别比较 full、loop、overlapping chunks、TVM 的 diagonaled kernel 和 non-overlapping local-chunks。先看是否随长度扩展，再看同长度的曲线差异。[P Fig. 1、§3.2、附录 A]
+**Figure 1 的问题 / 读法。** 左图读 runtime，单位 **ms / batch**；右图读 memory，单位 **MiB**。横轴是序列长度，图例中的四条曲线分别是 Full self-attention、Longformer-loop、Longformer-chunks、Longformer-cuda。先看是否随长度扩展，再看同长度的曲线差异。附录 A 的 non-overlapping local-chunks 是额外实现，不是本地 v2 Figure 1 中的一条曲线。[P Fig. 1、§3.2、附录 A]
 
 **Components / Data flow。** Python loop 逐位置处理窗口，算术规模降低却产生很多小操作。Overlapping chunks 把 Q/K 切成重叠块，以 dense GEMM 求块内 score，再转换成对角布局；它会计算一部分最后被 mask 的元素。TVM 自定义 kernel 直接计算对角带，支持 dilation。Local-chunks 避免块重叠，但相应连接形状有细微差别，不是同一 mask 的纯实现替换。
 
-**Key observation。** 图中 local-chunks 最快；TVM 更节省内存，速度不自动胜过 GEMM 分块。作者选择 PyTorch overlapping-chunks 为 fine-tuning 提供更方便的路径，字符 causal / dilation 设置则需要相应支持的实现。
+**Key observation。** 本图中的 Longformer-chunks 最快；Longformer-cuda 更节省内存，速度不自动胜过 GEMM 分块。作者选择 PyTorch overlapping-chunks 为 fine-tuning 提供更方便的路径，字符 causal / dilation 设置则需要相应支持的实现。
 
 **Why it matters / 解读。** GPU 时间受矩阵形状、启动次数、layout 转换和带宽影响。需要逐 op 测量 QKV projection → chunk / gather → QK → mask / softmax → PV → scatter → output projection，而不能仅按稀疏率推算速度。论文没有提供可直接迁移到 H100/H200 的完整 kernel 对比协议；这里不从图上编造精确点值，也不把它当成 FlashAttention 的实测对照。
 
